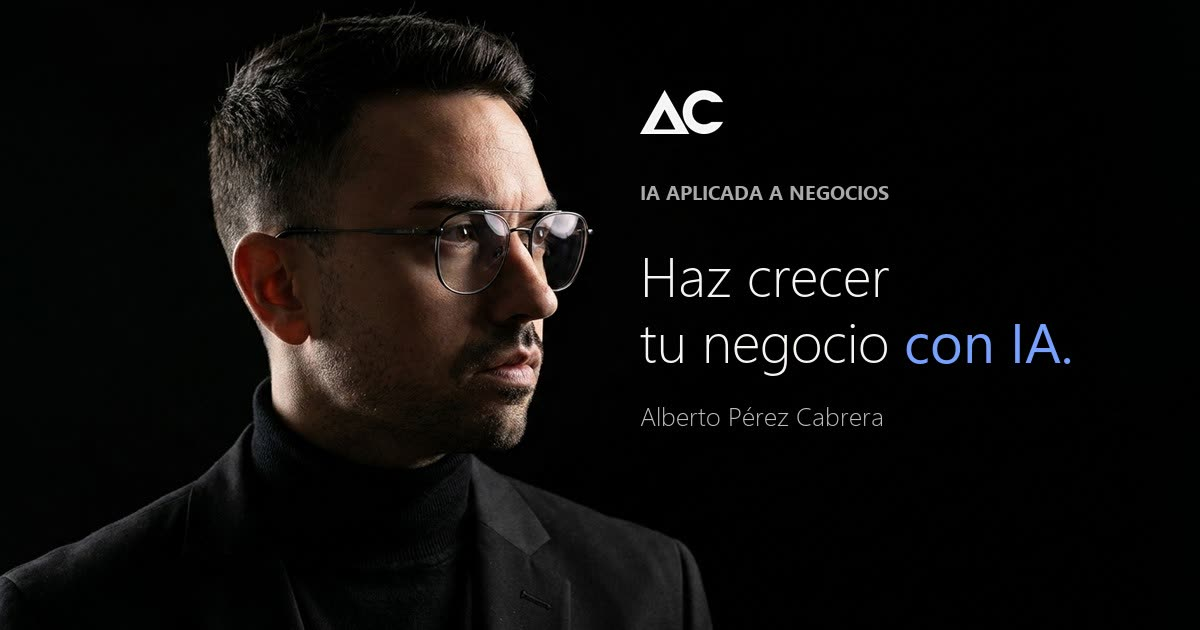
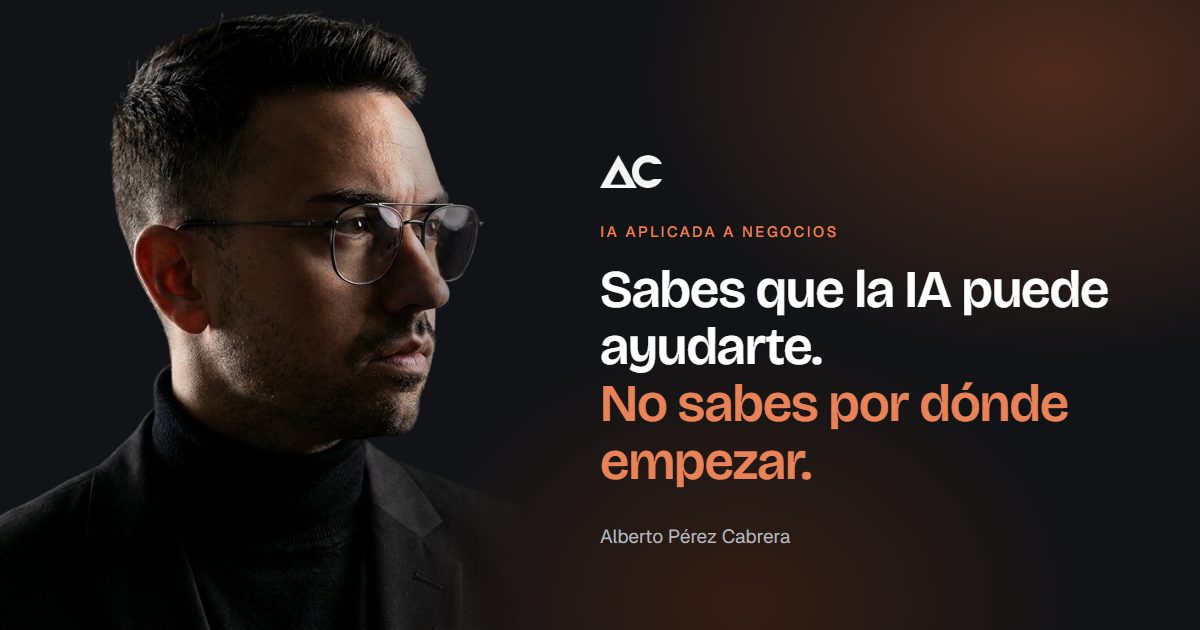
Completa el sitemap, acorta titles que se cortaban y renueva la imagen OG
El sitemap declaraba 10 URLs y hay 12: faltaban /no-perder-clientes/ y
/aeo-seo-ia-visibilidad/, las dos paginas nacidas despues de la
migracion. Sin estar ahi, Google solo llega a ellas por enlace interno.
Los lastmod seguian en julio.

Tres titles pasaban de 62c y Google los cortaba por la mitad. El peor era
el de AEO (77c): cortaba en "...lista para la I", comiendose la palabra
IA, que es LA keyword del articulo. Su description tambien perdia
"ChatGPT, Claude o Gemini". Se acortan manteniendo la keyword delante y
el patron "Tema | Alber Cabrera" del resto del sitio. No se toca ningun
slug, permalink ni canonical: las URLs indexadas siguen intactas, y los
H1 y ogTitle que lee la gente tampoco cambian.

La imagen de compartir llevaba el azul de la paleta retirada el 31-ago y
un copy que ya no existe. La nueva usa terracota, Bricolage + Geist y el
titular del hero actual. 1200x630, 64K.

diff --git a/aeo-seo-ia-visibilidad/index.html b/aeo-seo-ia-visibilidad/index.html
@@ -36,8 +36,8 @@
 
     <meta charset="UTF-8">
     <meta name="viewport" content="width=device-width, initial-scale=1.0">
-    <meta name="description" content="El SEO tradicional pierde fuerza porque ya no navegamos, preguntamos a la IA. Qué es el AEO, cómo funcionan los AI Crawlers y cómo saber si tu web es visible para ChatGPT, Claude o Gemini.">
-    <title>AEO: qué es y por qué tu web tiene que estar lista para la IA | Alber Cabrera</title>
+    <meta name="description" content="Ya no navegamos: preguntamos a la IA. Qué es el AEO y cómo saber si tu web es visible para ChatGPT, Claude o Gemini.">
+    <title>AEO: cómo hacer tu web visible para la IA | Alber Cabrera</title>
 
     <!-- SEO técnico -->
     <link rel="canonical" href="https://albercabrera.com/aeo-seo-ia-visibilidad/">

diff --git a/no-perder-clientes/index.html b/no-perder-clientes/index.html
@@ -36,7 +36,7 @@
 
     <meta charset="UTF-8">
     <meta name="viewport" content="width=device-width, initial-scale=1.0">
-    <meta name="description" content="Sistema de seguimiento de clientes para negocios que ya reciben consultas: ordena los leads de web, WhatsApp e Instagram, avisa a quién contactar y hace el seguimiento. Montaje en semanas, sin permanencia.">
+    <meta name="description" content="Ordena los leads de web, WhatsApp e Instagram, avisa a quién contactar y hace el seguimiento. Montaje en semanas, sin permanencia.">
     <title>Sistema de seguimiento de clientes y leads | Alber Cabrera</title>
 
     <!-- SEO técnico -->

diff --git a/sistematizar-negocio-local/index.html b/sistematizar-negocio-local/index.html
@@ -37,7 +37,7 @@
     <meta charset="UTF-8">
     <meta name="viewport" content="width=device-width, initial-scale=1.0">
     <meta name="description" content="Sistematizar tu negocio local no requiere software complejo: documentación simple, hábitos claros y formación constante. Guía práctica paso a paso.">
-    <title>Sistematizar un negocio local sin herramientas complejas | Alber Cabrera</title>
+    <title>Cómo sistematizar un negocio local | Alber Cabrera</title>
 
     <!-- SEO técnico -->
     <link rel="canonical" href="https://albercabrera.com/sistematizar-negocio-local/">

diff --git a/sistematizar-centro-formacion/index.html b/sistematizar-centro-formacion/index.html
@@ -37,7 +37,7 @@
     <meta charset="UTF-8">
     <meta name="viewport" content="width=device-width, initial-scale=1.0">
     <meta name="description" content="Cómo sistematizar la gestión de cursos y alumnos en un centro de formación: qué automatizar primero y qué cambia para el alumno. Ejemplo real.">
-    <title>Sistematizar cursos y alumnos en un centro de formación | Alber Cabrera</title>
+    <title>Sistematizar un centro de formación | Alber Cabrera</title>
 
     <!-- SEO técnico -->
     <link rel="canonical" href="https://albercabrera.com/sistematizar-centro-formacion/">

diff --git a/aeo-seo-ia-visibilidad/index.md b/aeo-seo-ia-visibilidad/index.md
@@ -1,4 +1,4 @@
-# AEO: qué es y por qué tu web tiene que estar lista para la IA
+# AEO: cómo hacer tu web visible para la IA
 
 Cada vez más gente pregunta directamente a ChatGPT, Claude o Perplexity en vez de navegar por Google: Gartner calcula que el tráfico tradicional de búsqueda podría caer un 25% en 2026 y más de un 50% en 2028. El SEO sigue importando, pero ya no basta: el nuevo objetivo es el AEO (Answer Engine Optimization), optimizar tu web para que la IA te lea, te entienda y te recomiende como respuesta.
 

diff --git a/sistematizar-centro-formacion/index.md b/sistematizar-centro-formacion/index.md
@@ -1,4 +1,4 @@
-# Sistematizar cursos y alumnos en un centro de formación
+# Sistematizar un centro de formación
 
 Sistematizar un centro de formación significa ordenar y automatizar la gestión de matrículas, asistencia, pagos y certificados para que no dependan de que una persona concreta esté disponible. No hace falta un software académico caro desde el primer día: se empieza por la tarea que más tiempo administrativo consume y se va sumando.
 

diff --git a/sistematizar-negocio-local/index.md b/sistematizar-negocio-local/index.md
@@ -1,4 +1,4 @@
-# Sistematizar un negocio local sin herramientas complejas
+# Cómo sistematizar un negocio local
 
 Sistematizar un negocio local no exige software complejo ni grandes inversiones: basta con documentar tus procesos clave, apoyarte en herramientas simples (hojas de cálculo, listas, formularios) y formar a tu equipo de forma constante. Empieza por un área problemática, implántalo unas semanas y ajusta según los resultados.
 
